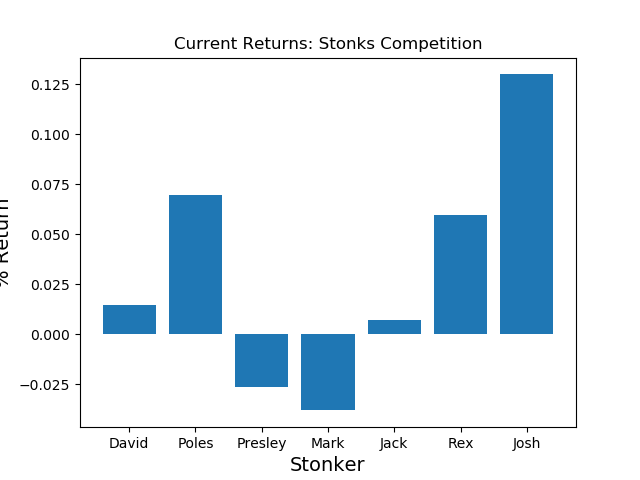
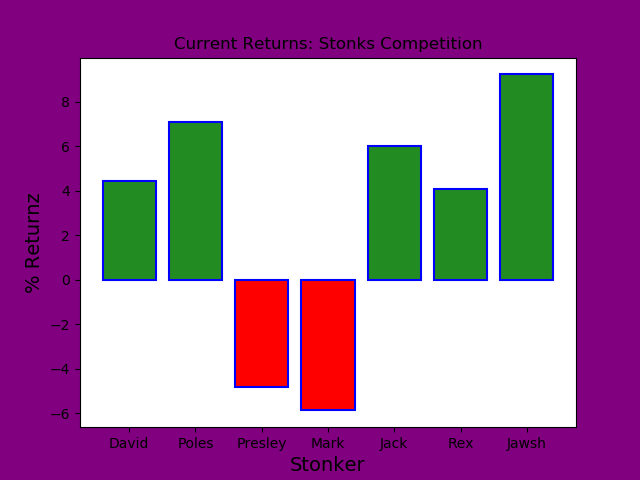
lots of stuff

diff --git a/templates/web.html b/templates/web.html
@@ -5,6 +5,18 @@
 <!--[if gt IE 8]>      <html class="no-js"> <!--<![endif]-->
 <html>
     <head>
+        <style>
+            body {
+                /*
+                background-image: url('/static/stonkman.jpg');
+                background-repeat: no-repeat;
+                background-position: center right;
+                background-attachment: fixed;
+                background-size: cover;
+                */
+                background-color: rgb(97, 51, 124);
+            }
+        </style>
         <meta charset="utf-8">
         <meta http-equiv="X-UA-Compatible" content="IE=edge">
         <title></title>
@@ -16,9 +28,46 @@
         <!--[if lt IE 7]>
             <p class="browsehappy">You are using an <strong>outdated</strong> browser. Please <a href="#">upgrade your browser</a> to improve your experience.</p>
         <![endif]-->
-        <h1>Hello World!</h1>
-        <img src="/static/stonk_graph.png">
-        <p>{{content}}</p>
+        <h1 style= padding-left:180px>Stonk Challenge Test</h1>
         <script src="" async defer></script>
+        <style>
+            table, th, td {
+              border: 1px solid rgb(0, 0, 0);
+              border-spacing: 0px;
+              width:auto;
+              margin-left: 60px;
+            }
+            tr:nth-child(odd) {background-color: #c5c6ce;}
+            tr:nth-child(even) {background-color: #ffffff;}
+            tr:nth-child(1) {background-color: #3473e9;}
+            tr:nth-child(1) {color:  #ffffff;}
+            
+            th, td {
+              padding: 10px;
+            }
+            </style>
+            </head>
+            <body>
+            
+            <table>
+              <tr>
+                <th>Name</th>
+                <th>Ticker</th>
+                <th>Current Price</th>
+                <th>Starting Price</th>
+                <th>Percent Change</th>
+              </tr>
+
+              {%for i in range(0, 7)%}
+                <tr>
+                    <td>{{content.names[i]}}</td>
+                    <td>${{content.ticker[i]}}</td>
+                    <td>${{content.currentPrice[i]}}</td>
+                    <td>${{content.startPrice[i]}}</td>
+                    <td>{{content.percentReturn[i]}}%</td>
+                </tr>
+              {%endfor%}
+            </table>
+            <img src="/static/stonk_graph.png">
     </body>
 </html>

diff --git a/stonk.py b/stonk.py
@@ -1,21 +1,23 @@
 from flask import Flask, render_template
 import matplotlib.pyplot as plt
 from yahoo_fin import stock_info as si
+from decimal import Decimal
 
 
 app = Flask(__name__)
+app.config['SEND_FILE_MAX_AGE_DEFAULT'] = 0
 @app.route('/')
 def printrand():
     ticker = ['SNDL', 'PSTH', 'TSLA', 'SQ', 'IPOE', 'AJAX', 'F']
-    names = ['David', 'Poles', 'Presley', 'Mark', 'Jack', 'Rex', 'Josh']
+    names = ['David', 'Poles', 'Presley', 'Mark', 'Jack', 'Rex', 'Jawsh']
     startPrice = [0.68, 27.75, 867.92, 241.99, 19.02, 11.52, 9.00]
     currentPrice = []
     percentReturn = []
     for elem in range(0,len(ticker)):
-        currentPrice.append(si.get_live_price(ticker[elem]))
+        currentPrice.append(round(si.get_live_price(ticker[elem]),2))
 
     for i in range(0, len(startPrice)):
-        percentReturn.append(((currentPrice[i]-startPrice[i])/startPrice[i]))
+        percentReturn.append(round((((currentPrice[i]-startPrice[i])/startPrice[i])*100),2))
 
     max_index = percentReturn.index(max(percentReturn))
 
@@ -27,16 +29,42 @@ def printrand():
     myDict["currentPrice"] = currentPrice
     myDict["percentReturn"] = percentReturn
     myDict["max"] = max_index
+    myDict["test"] = {False, False, False, False, True, False, False}
 
     #test
 
-    graph = plt.bar(names, percentReturn)
-    plt.ylabel('% Return', fontsize = 14)
+    positive = []
+    negative = []
+
+    for i in range(0, len(names)):
+        negative.append(percentReturn[i] < 0)
+        positive.append(percentReturn[i] >= 0)
+        # plt.bar(names[i][negative[i]], percentReturn[i][negative[i]], color = 'red')
+        # plt.bar(names[i][positive[i]], percentReturn[i][positive[i]], color = 'green')
+
+
+    for i in range(0, len(names)):
+        plt.bar(names[i], percentReturn[i][positive[i]], color = 'forestgreen', edgecolor = 'blue', linewidth = 1.5)
+        plt.bar(names[i], percentReturn[i][negative[i]], color = 'red', edgecolor = 'blue', linewidth = 1.5)
+    
+    plt.ylabel('% Returnz', fontsize = 14)
+    plt.rc('axes', axisbelow=True)
+    #plt.grid(False, color = 'gray', linestyle = 'dashed')
     plt.xlabel('Stonker', fontsize = 14)
     plt.title('Current Returns: Stonks Competition')
-    plt.savefig('static/stonk_graph.png')
-    return render_template('web.html', content= max_index)
+    plt.savefig('static/stonk_graph.png', facecolor='purple', edgecolor='none')
+    return render_template('web.html', content= myDict)
+
+# No caching at all for API endpoints.
+@app.after_request
+def add_header(response):
+    # response.cache_control.no_store = True
+    response.headers['Cache-Control'] = 'no-store, no-cache, must-revalidate, post-check=0, pre-check=0, max-age=0'
+    response.headers['Pragma'] = 'no-cache'
+    response.headers['Expires'] = '-1'
+    return response
 	
 
 if __name__ == '__main__':
-	app.run(host='127.0.0.1', port=8080, debug=True)
+	#app.run(host='127.0.0.1', port=8080, debug=True)
+    app.run(host='192.168.0.2', debug= True)

diff --git a/literally_anything.py b/literally_anything.py
@@ -1,0 +1,14 @@
+import numpy as np
+import matplotlib.pyplot as plt
+
+x = np.arange(10)
+y = np.arange(10) * 0.1
+
+mask1 = y < 0.5
+mask2 = y >= 0.5
+
+print(mask1)
+
+plt.bar(x[mask1], y[mask1], color = 'red')
+plt.bar(x[mask2], y[mask2], color = 'blue')
+plt.show()

diff --git a/test.py b/test.py
@@ -36,5 +36,5 @@ fig = go.Figure(data=[go.Table(
                align='left'))
 ])
 
-fig.update_layout(width=500, height=1000)
+fig.update_layout(width=500, height=500)
 fig.write_image("plot.png")
